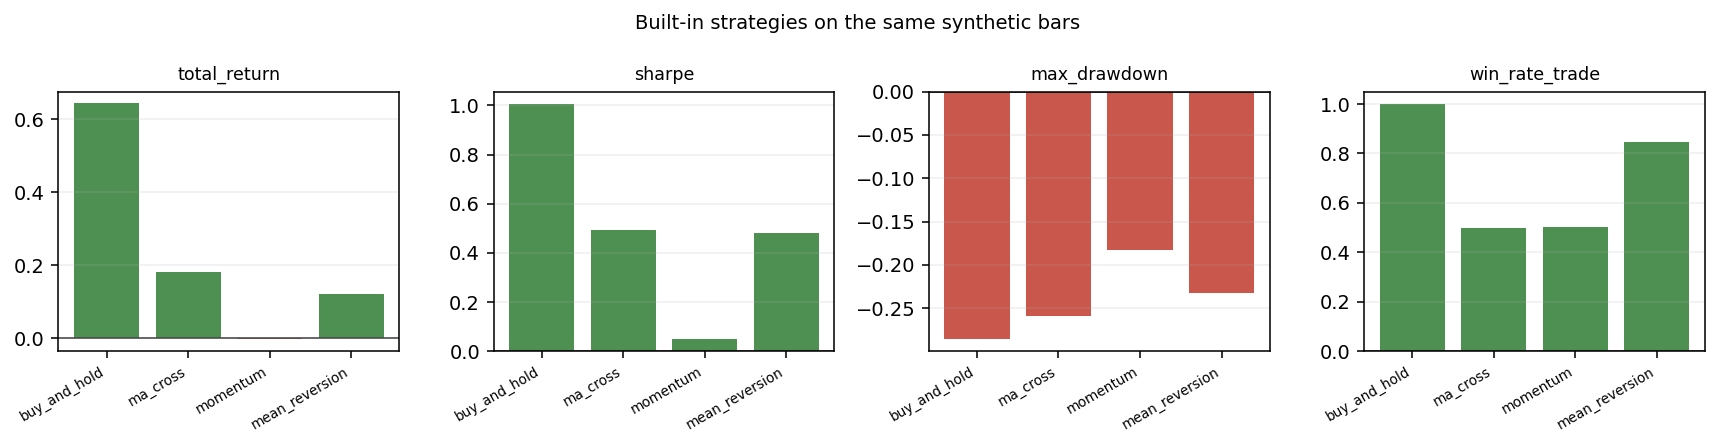
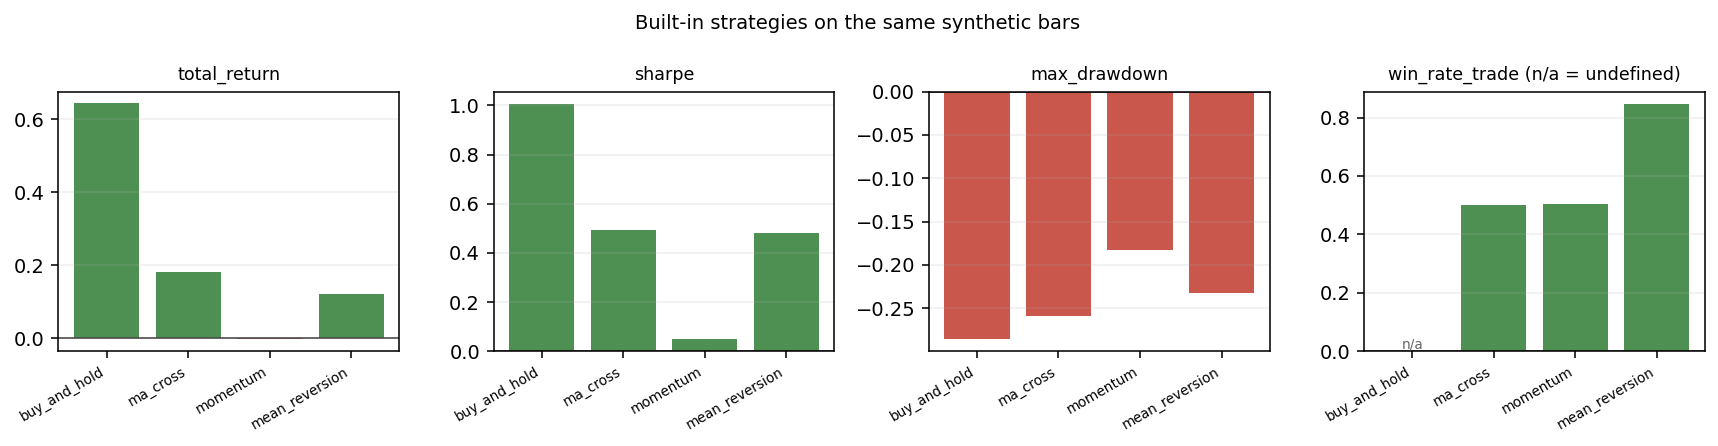
Fix the trade-accounting scope and pin the README demo tables to real output
metrics.compute_metrics counted an open position as a closed trade whenever no
trade had been closed yet (`closed = closed if len(closed) else trades`), so
buy_and_hold reported "1 trade / 100% win rate" from a position that was never
sold - and the down-market run reported 0%. The same branch also silently
dropped open trades when closed ones existed. src/aqlab/report.py already used
the correct convention, so the shared function was fixed rather than the
printer: closed trades drive `trades`/`win_rate_trade` (NaN when there are
none), and never-closed positions are reported separately as `open_trades`.

Propagated to every consumer: cli demo/plot, the agent tool keep-list, the
examples script, and plot_strategy_comparison, which drew undefined win rates
as zero-height bars - now labelled `n/a` in the panel title and under the bar.

The two README tables had no guard and had never matched the command they
claim to show (hand-written 28.70/1.111 vs the real 28.7/1.1105; the English
down-market table still had an 8-column header and the wrong buy_and_hold row).
They are replaced with real `aqlab demo` output, and a guard now runs the real
CLI and compares both READMEs cell by cell.

Also corrected three places that still claimed the opening-band rule held for
all ten factors; the measured result is 7 of 10, with alpha_003/006/012
reversed. The guard for that claim now covers wording variants, not just the
literal "all ten factors".

Changed region(s): [[0.7712, 0.2332, 0.9563, 0.787], [0.8021, 0.1457, 0.9872, 0.204], [0.9255, 0.2332, 0.9872, 0.3206]]

diff --git a/tests/test_documented_numbers.py b/tests/test_documented_numbers.py
@@ -151,7 +151,76 @@ def test_state_claim_is_seven_of_ten_not_all_ten():
         if {"开波段", "关波段"} <= set(row.index) and float(row.loc["关波段", "ic_mean"]) > float(row.loc["开波段", "ic_mean"]):
             better += 1
     assert better == 7, f"实际 {better} 个因子关波段更优"
+    # 判断"是不是把 7/10 写成了 10/10"不能只匹配一种措辞：这个错误在
+    # README.md / README.en.md / docs/ROADMAP.md 里各以不同说法出现过一次
+    # （"全部高于" / "every factor" / "一致更好"），只钉字面量就会漏。
+    banned = ("全部 10 个因子", "全部高于", "一致更好", "every factor", "all ten factors")
+    for name in ("README.md", "README.en.md", "docs/ROADMAP.md"):
+        text = (ROOT / name).read_text(encoding="utf-8")
+        for phrase in banned:
+            assert phrase not in text, f"{name} 不该再声称全部 10 个因子（命中 {phrase!r}）"
 
     readme = (ROOT / "README.md").read_text(encoding="utf-8")
-    assert "全部 10 个因子" not in readme, "README 不该再声称全部 10 个因子"
     assert "10 个因子里**7 个**" in readme or "7 个" in readme
+    english = (ROOT / "README.en.md").read_text(encoding="utf-8")
+    assert "7 of 10" in english, "英文 README 也该写明 7/10"
+
+
+# --------------------------------------------------------------------------------------
+# README 的"实测输出"两张表
+# --------------------------------------------------------------------------------------
+# 这两张表此前完全没有守卫——`buy_and_hold` 的"1 笔交易 / 胜率 100%"就是从这里被发现口径不对的。
+# 守卫必须跑**真实的 CLI**并把它的 stdout 抽出来比对，不能用测试里重写的一份格式化逻辑：
+# 那样只会验证"我的复现与我的实现一致"，还会放过 README 里手写的、命令根本不会打印的形式。
+def _run_demo(seed: int, tmp_path: Path) -> dict[str, list[str]]:
+    """跑真实的 `aqlab demo`，把 stdout 里的表格行解析出来。"""
+    completed = subprocess.run(
+        [sys.executable, "-m", "aqlab.cli", "demo", "--seed", str(seed), "--out", str(tmp_path / f"demo{seed}")],
+        cwd=ROOT, capture_output=True, text=True, encoding="utf-8", errors="replace",
+    )
+    assert completed.returncode == 0, f"demo --seed {seed} 失败：{completed.stderr[-400:]}"
+    rows: dict[str, list[str]] = {}
+    for line in completed.stdout.splitlines():
+        if not line.startswith("| ") or line.startswith("| 策略 |") or set(line) <= {"|", "-", " ", ":"}:
+            continue
+        cells = [cell.strip() for cell in line.strip().strip("|").split("|")]
+        rows[cells[0]] = cells[1:]
+    return rows
+
+
+def _readme_table_rows(text: str, header_marker: str) -> dict[str, list[str]]:
+    """取出 README 里以 ``header_marker`` 开头的那张表的数据行。"""
+    lines = text.splitlines()
+    start = next(index for index, line in enumerate(lines) if line.startswith(header_marker))
+    rows: dict[str, list[str]] = {}
+    for line in lines[start + 2:]:
+        if not line.startswith("|"):
+            break
+        cells = [cell.strip() for cell in line.strip().strip("|").split("|")]
+        rows[cells[0]] = cells[1:]
+    return rows
+
+
+def test_readme_demo_tables_match_the_actual_demo_output(tmp_path):
+    """两个 README 的 demo 表必须**就是** `aqlab demo` 的输出（逐列、逐字符）。
+
+    英文表曾经漏改过一次（表头还是旧的 8 列、`buy_and_hold` 那行还是错的），
+    所以两种语言都要守。
+    """
+    for name, marker in (("README.md", "| 策略 | 总收益%"), ("README.en.md", "| Strategy | Total return %")):
+        text = (ROOT / name).read_text(encoding="utf-8")
+        blocks = text.split(marker)
+        assert len(blocks) == 3, f"{name} 应恰好有两张 demo 表（上涨 / 下跌）"
+
+        for seed, block in zip((25, 7), blocks[1:], strict=True):
+            documented = _readme_table_rows(marker + block, marker)
+            actual = _run_demo(seed, tmp_path)
+            assert set(documented) == set(actual), f"{name} seed={seed} 表的策略集合不一致"
+            for strategy, expected in actual.items():
+                assert documented[strategy] == expected, (
+                    f"{name} seed={seed} 的 {strategy} 行与真实 demo 输出不一致："
+                    f"文档 {documented[strategy]} vs 实际 {expected}"
+                )
+            # 口径本身也要钉住：买入持有只有未平仓持仓，胜率必须是 n/a 而不是 100%
+            assert documented["buy_and_hold"][5:7] == ["0", "1"], f"{name}: buy_and_hold 应为「已平仓 0 / 未平仓 1」"
+            assert documented["buy_and_hold"][7] == "n/a", f"{name}: 只有未平仓持仓时胜率必须是 n/a"

diff --git a/tests/test_metrics.py b/tests/test_metrics.py
@@ -64,6 +64,43 @@ def test_missing_columns_raise():
         compute_metrics(pd.DataFrame({"equity": [1.0, 1.1]}))
 
 
+def test_never_closed_position_is_not_a_trade():
+    """Regression: an open position is not a realized trade.
+
+    Buy-and-hold enters once and never exits. Counting that position would
+    report "1 trade, 100% win rate" by treating *unrealized* P&L as realized —
+    the win rate must be undefined, not 100%.
+    """
+    from aqlab.strategies import build_strategy
+
+    df = generate_synthetic_ohlcv(n_days=750, seed=25)  # +128.5% market
+    strategy = build_strategy("buy_and_hold")
+    result = run_backtest(df, strategy.positions(df), config=BacktestConfig())
+    assert result.trades["open"].sum() == 1  # the position really is open
+
+    metrics = compute_metrics(result.frame, initial_cash=result.config.initial_cash, trades=result.trades)
+    assert metrics["trades"] == 0
+    assert metrics["open_trades"] == 1
+    assert np.isnan(metrics["win_rate_trade"])
+
+
+def test_open_trade_is_reported_alongside_closed_ones():
+    """An open position must not be silently dropped when closed trades exist."""
+    from aqlab.strategies import build_strategy
+
+    df = generate_synthetic_ohlcv(n_days=750, seed=25)
+    strategy = build_strategy("mean_reversion")
+    result = run_backtest(df, strategy.positions(df), config=BacktestConfig())
+    closed = int((~result.trades["open"].astype(bool)).sum())
+    opened = int(result.trades["open"].astype(bool).sum())
+    assert closed > 0 and opened > 0
+
+    metrics = compute_metrics(result.frame, initial_cash=result.config.initial_cash, trades=result.trades)
+    assert metrics["trades"] == closed
+    assert metrics["open_trades"] == opened
+    assert closed + opened == len(result.trades)  # nothing vanishes
+
+
 def test_format_metrics_renders_percentages():
     frame = _flat_frame([0.01, 0.02, -0.01])
     metrics = compute_metrics(frame, initial_cash=1.0)

diff --git a/src/aqlab/cli.py b/src/aqlab/cli.py
@@ -65,7 +65,7 @@ def cmd_demo(args: argparse.Namespace) -> int:
         strategy = build_strategy(name)
         result = run_backtest(df, strategy.positions(df), config=config, name=strategy.name)
         metrics = compute_metrics(result.frame, initial_cash=config.initial_cash, trades=result.trades)
-        summary.append({"strategy": name, **{k: metrics.get(k) for k in ("total_return", "cagr", "ann_vol", "sharpe", "max_drawdown", "trades", "win_rate_trade")}})
+        summary.append({"strategy": name, **{k: metrics.get(k) for k in ("total_return", "cagr", "ann_vol", "sharpe", "max_drawdown", "trades", "open_trades", "win_rate_trade")}})
         write_report(out_root / "demo" / name, name, result, metrics, extras={"strategy": name, **strategy.params})
 
     import pandas as pd
@@ -73,6 +73,8 @@ def cmd_demo(args: argparse.Namespace) -> int:
     table = pd.DataFrame(summary)
     for col in ("total_return", "cagr", "ann_vol", "max_drawdown", "win_rate_trade"):
         table[col] = (table[col] * 100).round(2)
+    if "open_trades" in table:
+        table["open_trades"] = table["open_trades"].fillna(0).astype(int)
     table = table.rename(
         columns={
             "strategy": "策略",
@@ -81,11 +83,13 @@ def cmd_demo(args: argparse.Namespace) -> int:
             "ann_vol": "年化波动%",
             "sharpe": "Sharpe",
             "max_drawdown": "最大回撤%",
-            "trades": "交易数",
+            "trades": "已平仓交易",
+            "open_trades": "未平仓",
             "win_rate_trade": "胜率%",
         }
     )
     print(markdown_table(table))
+    print("\n胜率与单笔统计只统计**已平仓**交易；未平仓持仓按浮动盈亏展示，不计入胜率。")
     print(f"\n报告已写入：{out_root / 'demo'}")
     return 0
 

diff --git a/src/aqlab/metrics.py b/src/aqlab/metrics.py
@@ -98,15 +98,22 @@ def compute_metrics(
         metrics["exposure"] = float((frame["pos"].fillna(0.0) != 0).mean())
 
     if trades is not None and len(trades):
-        closed = trades[~trades.get("open", False).astype(bool)] if "open" in trades else trades
-        closed = closed if len(closed) else trades
+        # Only closed round trips are realized trades. An open position is not a
+        # trade yet: counting it would turn unrealized P&L into a win rate (a
+        # buy-and-hold run would report "1 trade, 100% win rate"). It is reported
+        # separately as ``open_trades`` instead — same convention as report.py.
+        is_open = trades["open"].fillna(False).astype(bool) if "open" in trades else pd.Series(False, index=trades.index)
+        closed = trades[~is_open]
+        n_closed, n_open = len(closed), int(is_open.sum())
         net = closed["net_return"].astype(float)
-        metrics["trades"] = len(closed)
-        metrics["win_rate_trade"] = float((net > 0).mean())
-        metrics["avg_trade"] = float(net.mean())
-        metrics["avg_bars_held"] = float(closed["bars_held"].mean())
-        metrics["best_trade"] = float(net.max())
-        metrics["worst_trade"] = float(net.min())
+        metrics["trades"] = n_closed
+        if n_open:
+            metrics["open_trades"] = n_open
+        metrics["win_rate_trade"] = float((net > 0).mean()) if n_closed else float("nan")
+        metrics["avg_trade"] = float(net.mean()) if n_closed else float("nan")
+        metrics["avg_bars_held"] = float(closed["bars_held"].mean()) if n_closed else float("nan")
+        metrics["best_trade"] = float(net.max()) if n_closed else float("nan")
+        metrics["worst_trade"] = float(net.min()) if n_closed else float("nan")
 
     return metrics
 

diff --git a/src/aqlab/charts.py b/src/aqlab/charts.py
@@ -113,11 +113,17 @@ def plot_strategy_comparison(
     positions = np.arange(len(labels))
     for axis, column in zip(axes, metrics, strict=False):
         values = pd.to_numeric(summary[column], errors="coerce").to_numpy(dtype=float)
-        colors = ["#2e7d32" if value >= 0 else "#c0392b" for value in np.nan_to_num(values)]
-        axis.bar(positions, np.nan_to_num(values), color=colors, alpha=0.85)
+        heights = np.nan_to_num(values)
+        colors = ["#2e7d32" if value >= 0 else "#c0392b" for value in heights]
+        axis.bar(positions, heights, color=colors, alpha=0.85)
+        # 未定义的指标（如只有未平仓持仓、没有已平仓交易时的胜率）必须显式标注，
+        # 否则一根零高柱会被读成"0%"——那是把一个"没有数据"画成了一个坏成绩。
+        undefined = np.isnan(values)
         axis.set_xticks(positions)
         axis.set_xticklabels(labels, rotation=30, ha="right", fontsize=7)
-        axis.set_title(column, fontsize=9)
+        for index in np.flatnonzero(undefined):
+            axis.text(float(positions[index]), 0.0, "n/a", ha="center", va="bottom", fontsize=7, color="#666666")
+        axis.set_title(f"{column} (n/a = undefined)" if undefined.any() else column, fontsize=9)
         axis.axhline(0, color="#444444", linewidth=0.8)
         axis.grid(alpha=0.2, axis="y")
     figure.suptitle(title, fontsize=10)

diff --git a/examples/run_demo.py b/examples/run_demo.py
@@ -37,7 +37,8 @@ def main() -> None:
                 "年化波动%": round(metrics["ann_vol"] * 100, 2),
                 "Sharpe": round(metrics["sharpe"], 3),
                 "最大回撤%": round(metrics["max_drawdown"] * 100, 2),
-                "交易数": metrics.get("trades"),
+                "已平仓交易": metrics.get("trades", 0),
+                "未平仓": int(metrics.get("open_trades", 0) or 0),
                 "胜率%": round(metrics.get("win_rate_trade", float("nan")) * 100, 2),
             }
         )

diff --git a/src/aqlab/tools.py b/src/aqlab/tools.py
@@ -383,6 +383,7 @@ class ToolRegistry:
             "annual_turnover",
             "exposure",
             "trades",
+            "open_trades",
             "win_rate_trade",
             "avg_trade",
         )

diff --git a/README.en.md b/README.en.md
@@ -39,7 +39,7 @@ git clone https://github.com/zwb-tj/ashare-quant-lab.git
 cd ashare-quant-lab
 pip install -e ".[dev]"        # about 29 seconds
 
-pytest -q                      # 443 cases, fully offline, no network and no API key (about 3 minutes)
+pytest -q                      # 446 cases, fully offline, no network and no API key (about 3 minutes)
 
 # one zero-dependency research command (synthetic data, about 6 seconds)
 python -m aqlab.cli factor-ic --symbols 30 --days 500 --out output
@@ -56,7 +56,7 @@ python scripts/reproduce_all.py --verify   # regenerate 8 figures and compare wi
 
 | Area | Concrete numbers / facts |
 | --- | --- |
-| **Engineering quality** | **443 tests** across 50 modules, fully offline｜**87% coverage**, CI gate `--cov-fail-under=85`｜**ruff + mypy clean** and wired into CI｜Python **3.10 / 3.11 / 3.12** matrix |
+| **Engineering quality** | **446 tests** across 50 modules, fully offline｜**87% coverage**, CI gate `--cov-fail-under=85`｜**ruff + mypy clean** and wired into CI｜Python **3.10 / 3.11 / 3.12** matrix |
 | **Real market scale** | Local LevelDB quote store, **5,424 symbols** (daily from 2000, minute bars from 2025-01)｜a single full-market study covers **58,682 trades** |
 | **Statistical rigour** | Every conclusion carries a **sample size + same-period benchmark excess + Welch t statistic**; the benchmark is an equal-weight market index over the same entry date and holding period｜key findings are checked across **24 parameter/caliber combinations** |
 | **Falsifiable conclusions** | **Several hypotheses were rejected by the project's own data** and written up: the screening rule shows -0.40 ~ -4.23% excess over 334 published records (13 of 24 cells significantly negative); structural exits compress holding to 3-5 days and turn excess negative; all five portfolio weighting methods lose to equal weights |
@@ -122,21 +122,21 @@ python -m aqlab.cli agent --question "Backtest SYN001 with ma_cross(10,30) and r
 
 **Up market (seed=25, underlying cumulative +128.5%)**
 
-| Strategy | Total return % | Annualized % | Annualized vol % | Sharpe | Max drawdown % | Trades | Win rate % |
-|:--- |---:|---:|---:|---:|---:|---:|---:|
-| buy_and_hold | 128.39 | 31.98 | 28.70 | 1.111 | -28.55 | 1 | 100 |
-| ma_cross | 55.80 | 16.07 | 22.34 | 0.778 | -25.92 | 12 | 50.00 |
-| momentum | 9.83 | 3.20 | 14.81 | 0.287 | -18.23 | 367 | 50.95 |
-| mean_reversion | 41.60 | 12.40 | 13.65 | 0.924 | -23.30 | 20 | 85.00 |
+| Strategy | Total return % | Annualized % | Annualized vol % | Sharpe | Max drawdown % | Closed trades | Open | Win rate % |
+|:--- |---:|---:|---:|---:|---:|---:|---:|---:|
+| buy_and_hold | 128.39 | 31.98 | 28.7 | 1.1105 | -28.55 | 0 | 1 | n/a |
+| ma_cross | 55.8 | 16.07 | 22.34 | 0.7785 | -25.92 | 12 | 0 | 50 |
+| momentum | 9.83 | 3.2 | 14.81 | 0.2868 | -18.23 | 367 | 0 | 50.95 |
+| mean_reversion | 41.6 | 12.4 | 13.65 | 0.9242 | -23.3 | 20 | 1 | 85 |
 
 **Down market (seed=7, underlying cumulative -65.1%)**
 
-| Strategy | Total return % | Annualized % | Annualized vol % | Sharpe | Max drawdown % | Trades | Win rate % |
-|:--- |---:|---:|---:|---:|---:|---:|---:|
-| buy_and_hold | -65.15 | -29.83 | 26.94 | -1.179 | -72.91 | 1 | 0.00 |
-| ma_cross | -21.35 | -7.75 | 15.39 | -0.447 | -37.28 | 13 | 23.08 |
-| momentum | -10.98 | -3.83 | 9.14 | -0.382 | -19.76 | 155 | 40.65 |
-| mean_reversion | -45.53 | -18.46 | 19.00 | -0.979 | -53.88 | 30 | 50.00 |
+| Strategy | Total return % | Annualized % | Annualized vol % | Sharpe | Max drawdown % | Closed trades | Open | Win rate % |
+|:--- |---:|---:|---:|---:|---:|---:|---:|---:|
+| buy_and_hold | -65.15 | -29.83 | 26.94 | -1.1791 | -72.91 | 0 | 1 | n/a |
+| ma_cross | -21.35 | -7.75 | 15.39 | -0.4473 | -37.28 | 13 | 0 | 23.08 |
+| momentum | -10.98 | -3.83 | 9.14 | -0.3815 | -19.76 | 155 | 1 | 40.65 |
+| mean_reversion | -45.53 | -18.46 | 19 | -0.9789 | -53.88 | 30 | 0 | 50 |
 
 **Equity, drawdown and strategy comparison (`aqlab plot`, same synthetic bars, fees and slippage included)**
 
@@ -156,6 +156,9 @@ python -m aqlab.cli agent --question "Backtest SYN001 with ma_cross(10,30) and r
 - In the bull market **no strategy beats buy-and-hold** — this is not a bug but the fact a backtest should expose: timing strategies are structurally disadvantaged in a one-way uptrend.
 - In the bear market `momentum` / `ma_cross` compress the -65% drawdown to -11% / -21%, which shows their value lies in **risk control**, not return enhancement.
 - An analysis that declares a strategy "effective" from a single regime is not worth trusting; **comparison across regimes** is the starting point.
+- **The trade count includes closed trades only**: `buy_and_hold` holds one position it never sells, so it reads
+  "0 closed / 1 open" and a win rate of `n/a` rather than 100% — counting unrealized P&L as a realized win is one
+  of the most common ways a backtest lies to itself.
 
 ## LLM / Agent research layer (v0.2, implemented)
 
@@ -315,7 +318,7 @@ ashare-quant-lab/
 │   ├── sweep.py           # parameter sweep: event study + rolling window + portfolio in one grid comparison
 │   └── cli.py             # .../sweep/decide/quality
 ├── scripts/               # run_daily.ps1 (run the current-day job), register_task.ps1 (register the 17:30 scheduled task)
-├── tests/                 # 443 cases: data, indicators, backtest (incl. the no-lookahead contradiction), tools, agent, evaluation, rules, brick chart, pipeline, notification, position/exit, event study, rolling window, portfolio layer, parameter sweep
+├── tests/                 # 446 cases: data, indicators, backtest (incl. the no-lookahead contradiction), tools, agent, evaluation, rules, brick chart, pipeline, notification, position/exit, event study, rolling window, portfolio layer, parameter sweep
 ├── examples/              # offline demo scripts + example reports
 ├── docs/                  # architecture notes and roadmap
 └── .github/workflows/     # CI: pytest across multiple Python versions
@@ -742,8 +745,12 @@ Only two findings hold: **the 0AMV band open (+0.58% vs band closed -0.31%)**, a
 - ✅ **v0.10** Picks-log backtest: next-day open entry + dedupe window + holding-period returns + **same-period equal-weight basket excess** (`aqlab picks-backtest`).
 - ✅ **v0.11** Full-market verification: full-market B1 re-screening (5,424 symbols) + 0AMV band gate + exit-rule engine (stop/target, white-yellow lines, leash, drip) + opening volume features (`aqlab universe-study`).
 - ✅ **v0.12** Long-sample review: 21-month stratified sampling (13,492 trades) + out-of-sample testing of opening features (conclusion: opening-pattern edges are unstable, while the 0AMV regime and the holding period are stable).
-- ✅ **v0.29** State-dependence analysis: the closed 0AMV band is consistently better for every factor, and
-  two plausible explanations for the fold-4 failure are rejected by the data.
+- ✅ **v0.37** Trade-accounting fix (a real bug): `compute_metrics` counted an **open** position as a
+  realized trade (`buy_and_hold` reported "1 trade / 100% win rate" from unrealized P&L) and silently dropped
+  open trades when closed ones existed. It now counts closed trades only, reports `open_trades` separately, and
+  leaves the win rate `n/a` when nothing has been closed; two guard tests pin the behaviour.
+- ✅ **v0.29** State-dependence analysis: the closed 0AMV band is better for **7 of 10** factors (three move the
+  other way), and two plausible explanations for the fold-4 failure are rejected by the data.
 - ✅ **v0.28** Walk-forward fold validation: 12 robust combinations out of 74, with fold 4 (2026 Q2) failing
   across the board.
 - ✅ **v0.27** Cost check on the alpha portfolios (next-open entry, turnover-based costs, break-even cost);

diff --git a/docs/ROADMAP.md b/docs/ROADMAP.md
@@ -261,13 +261,30 @@
 ## v0.29 · 市场状态依赖性（✅ 已完成，2026-09）
 
 - `src/aqlab/state_dependence.py`：按等权指数动量 / 横截面离散度 / 0AMV 波段分组统计 IC（等频分档）。
-- 真实全市场：10 个因子在**关波段**下的 IC 与 t 值**全部高于**开波段；但「高离散导致折 4 失效」的猜测被否掉。
+- 真实全市场：10 个因子里 **7 个**在**关波段**下的 IC 高于开波段（alpha_003 / alpha_006 / alpha_012 方向相反，
+  所以只能说「关波段整体更有利」而不是普适规律）；「高离散导致折 4 失效」与「低动量导致失效」两个猜测都被数据否掉。
 - 待办：状态 × 因子的交互显著性检验；用滚动分档替代全样本分档（当前分档用到了未来信息，属解释性分析）。
 
 ## v0.35 · 案例研究收尾（✅ 已完成，2026-09）
 
 - `docs/CASE_STUDY.md` 补上 Agent 层（离线 vs 真实模型并列评测、判据三次修正的经过）与 trace 可视化两节。
 - 修正过期数字（32→49 测试模块、86%→87%、5,382→6,566 语句、18→23 子命令），并加守护测试防再次漂移。
+
+## v0.37 · 交易统计口径修正（✅ 已完成，2026-09）
+
+- **是真 bug，不是显示问题**：`compute_metrics(..., trades=...)` 在**没有任何已平仓交易**时执行
+  `closed = closed if len(closed) else trades`，把未平仓持仓当成已平仓交易——于是 `buy_and_hold`
+  报告"1 笔交易 / 胜率 100%"，实际是把**浮动盈亏**当成已实现胜率（下跌行情则为 0%）；反向的错同时存在：
+  有平仓时又**静默丢弃**未平仓笔（momentum / mean_reversion 各少 1 笔）。
+- 修正口径：`metrics["trades"]` 只数**已平仓**交易，另给出 `open_trades`；无已平仓交易时
+  `win_rate_trade / avg_trade / avg_bars_held / best_trade / worst_trade` 取 `nan`（不再伪造 0% 或 100%）。
+  这其实是**对齐仓库早已存在的约定**——`src/aqlab/report.py` 一直只统计已平仓交易并打印
+  "（另有 N 笔持仓未平仓，未计入交易统计）"，是 metrics 与 report 自相矛盾。
+- 消耗点同步：`cmd_demo` 表格拆成「已平仓交易 / 未平仓 / 胜率」并加口径说明；`plot_strategy_comparison`
+  对未定义的柱子显式标注 `n/a`（零高柱会被读成"0%"）；agent 工具 `run_backtest` 的返回字段补 `open_trades`；
+  README 中英文两张表、`examples/run_demo.py` 一并更新。
+- 守卫测试：`tests/test_metrics.py` 新增两条——"只有未平仓持仓不构成一笔交易"（断言 0 / 1 / nan）
+  与"有平仓时未平仓笔不能被丢掉"（`closed + open == len(trades)`）。
 
 ## v0.36 · 研究笔记可复现化（✅ 已完成，2026-09）
 

diff --git a/docs/CASE_STUDY.md b/docs/CASE_STUDY.md
@@ -263,8 +263,8 @@ The volume-ratio gate, in numbers (10-day excess %, 146 published signals):
 
 ## Engineering
 
-443 pytest cases in 50 test modules run offline with no network or API key; statement coverage is 87%
-(6,566 statements, 862 missed); CI fails below 85% (`--cov-fail-under=85`). GitHub Actions is split into a
+446 pytest cases in 50 test modules run offline with no network or API key; statement coverage is 87%
+(6,576 statements, 861 missed); CI fails below 85% (`--cov-fail-under=85`). GitHub Actions is split into a
 `verify` job (3.12: ruff, mypy, tests, coverage gate, figure reproduction, CLI smoke) and a `compat` job
 (3.10 and 3.11: import every module and run the suite), both printing an environment report; the lint rule
 set is pinned in `pyproject.toml` rather than set to `ALL`. The CI split exists because a version-specific
